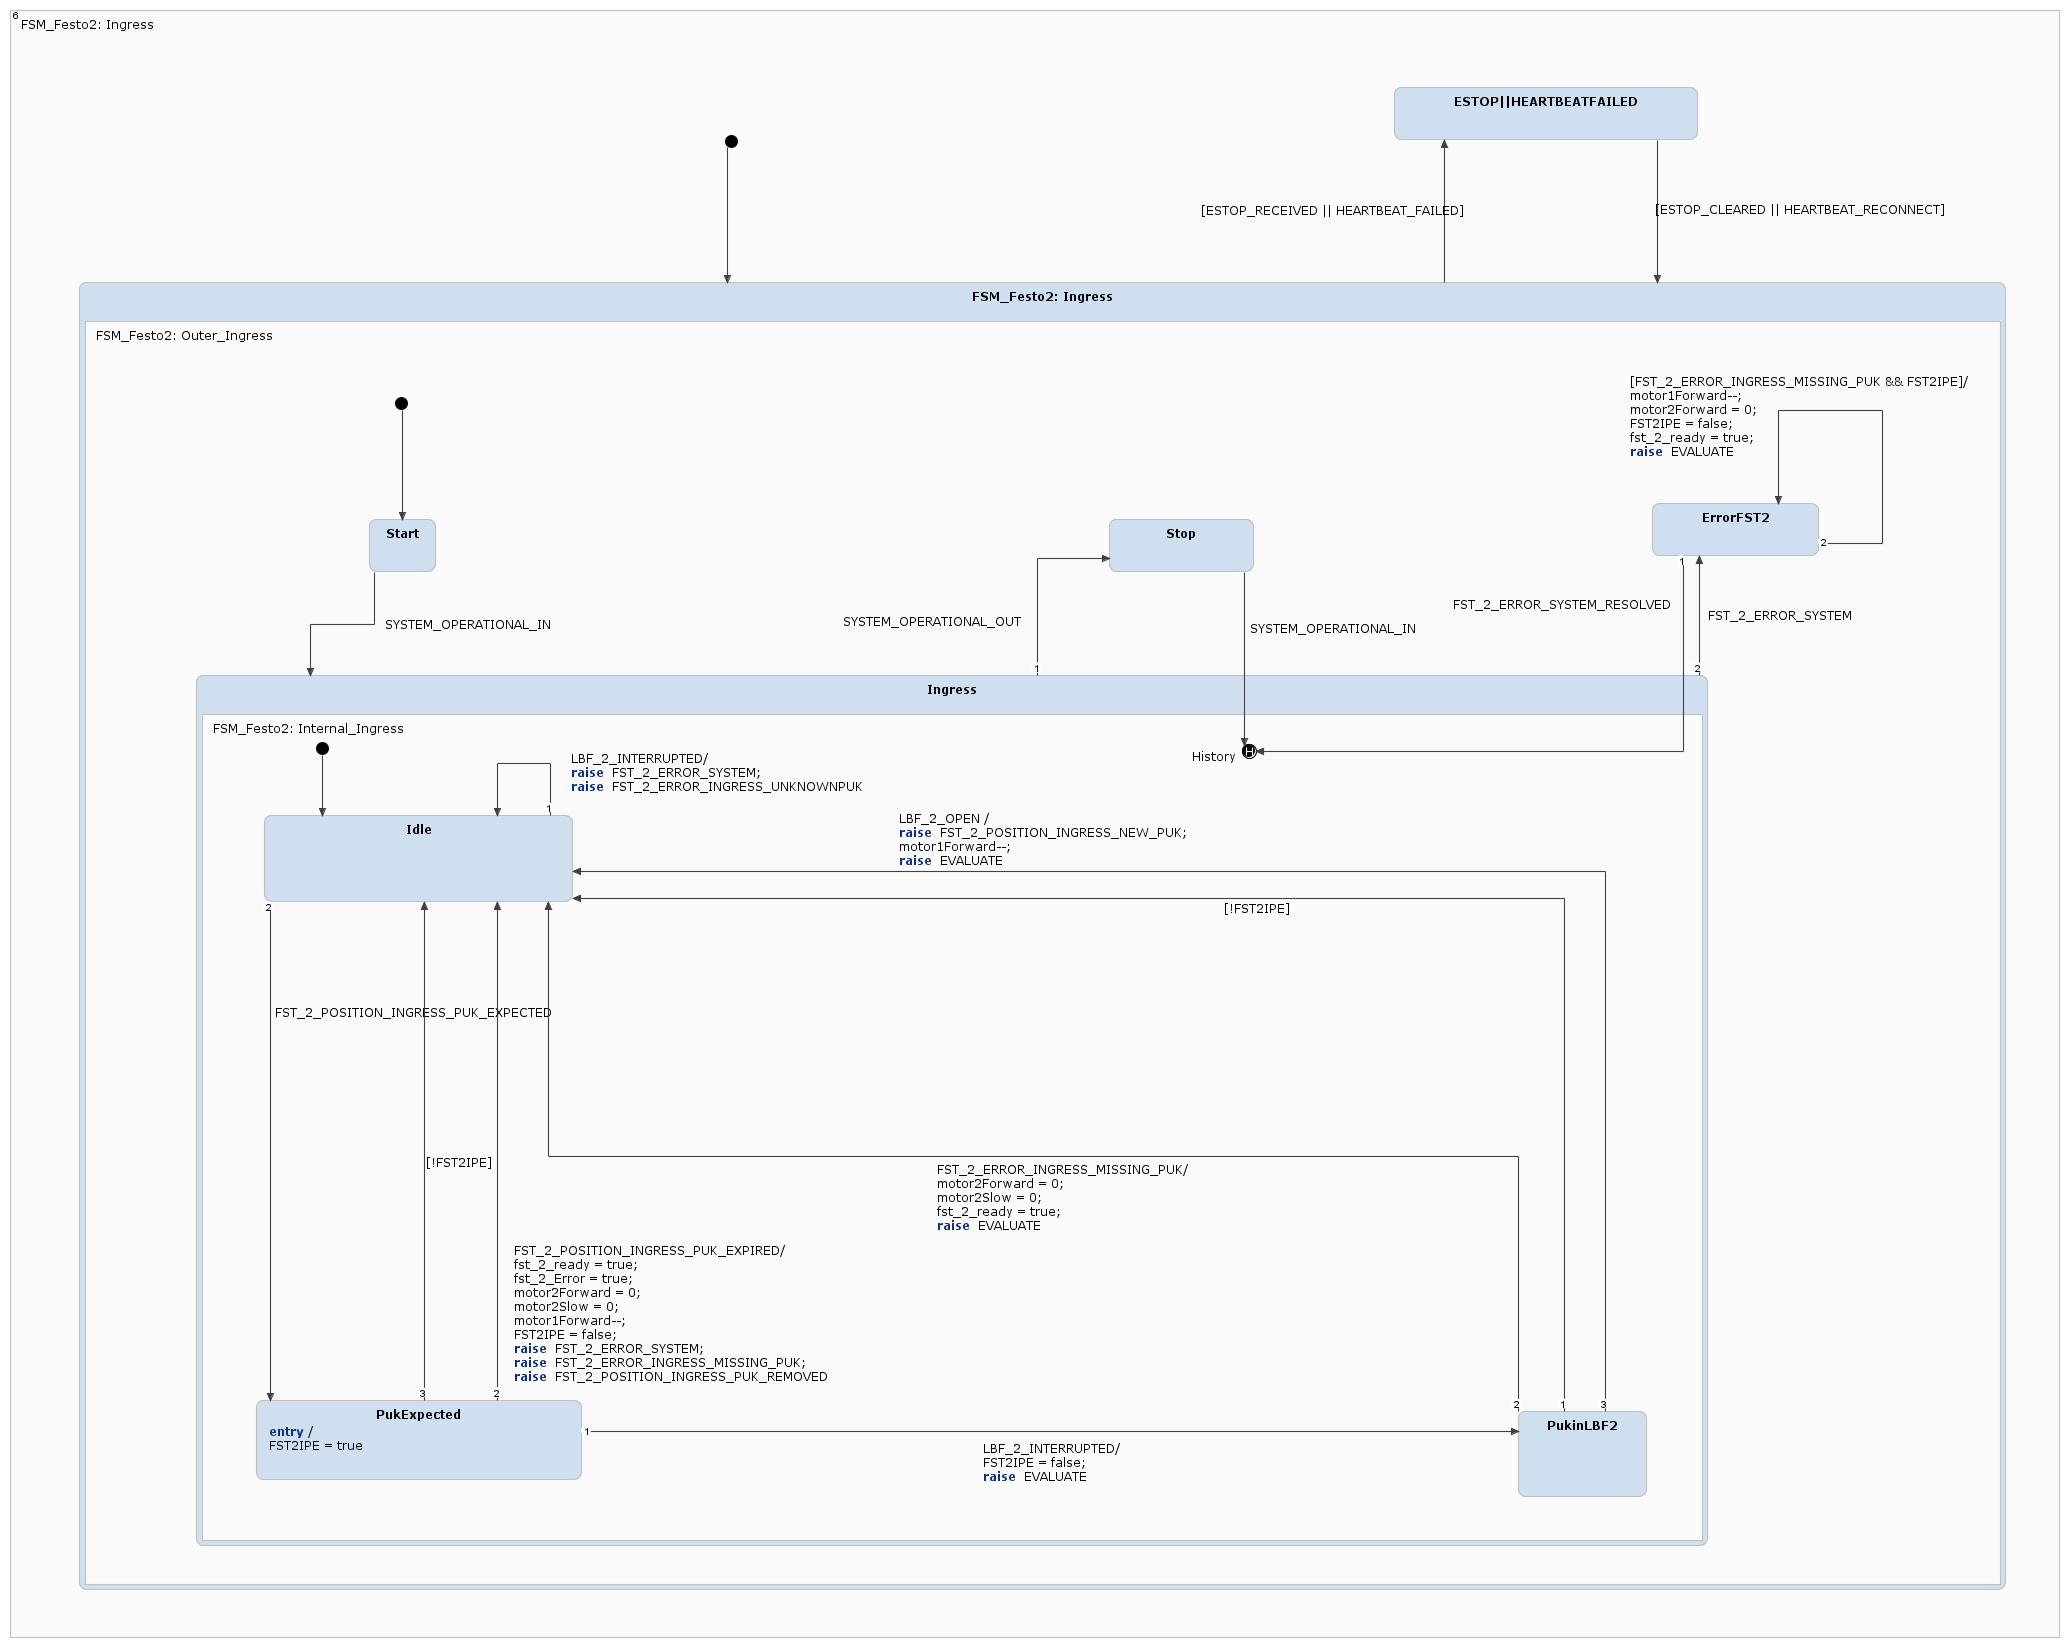
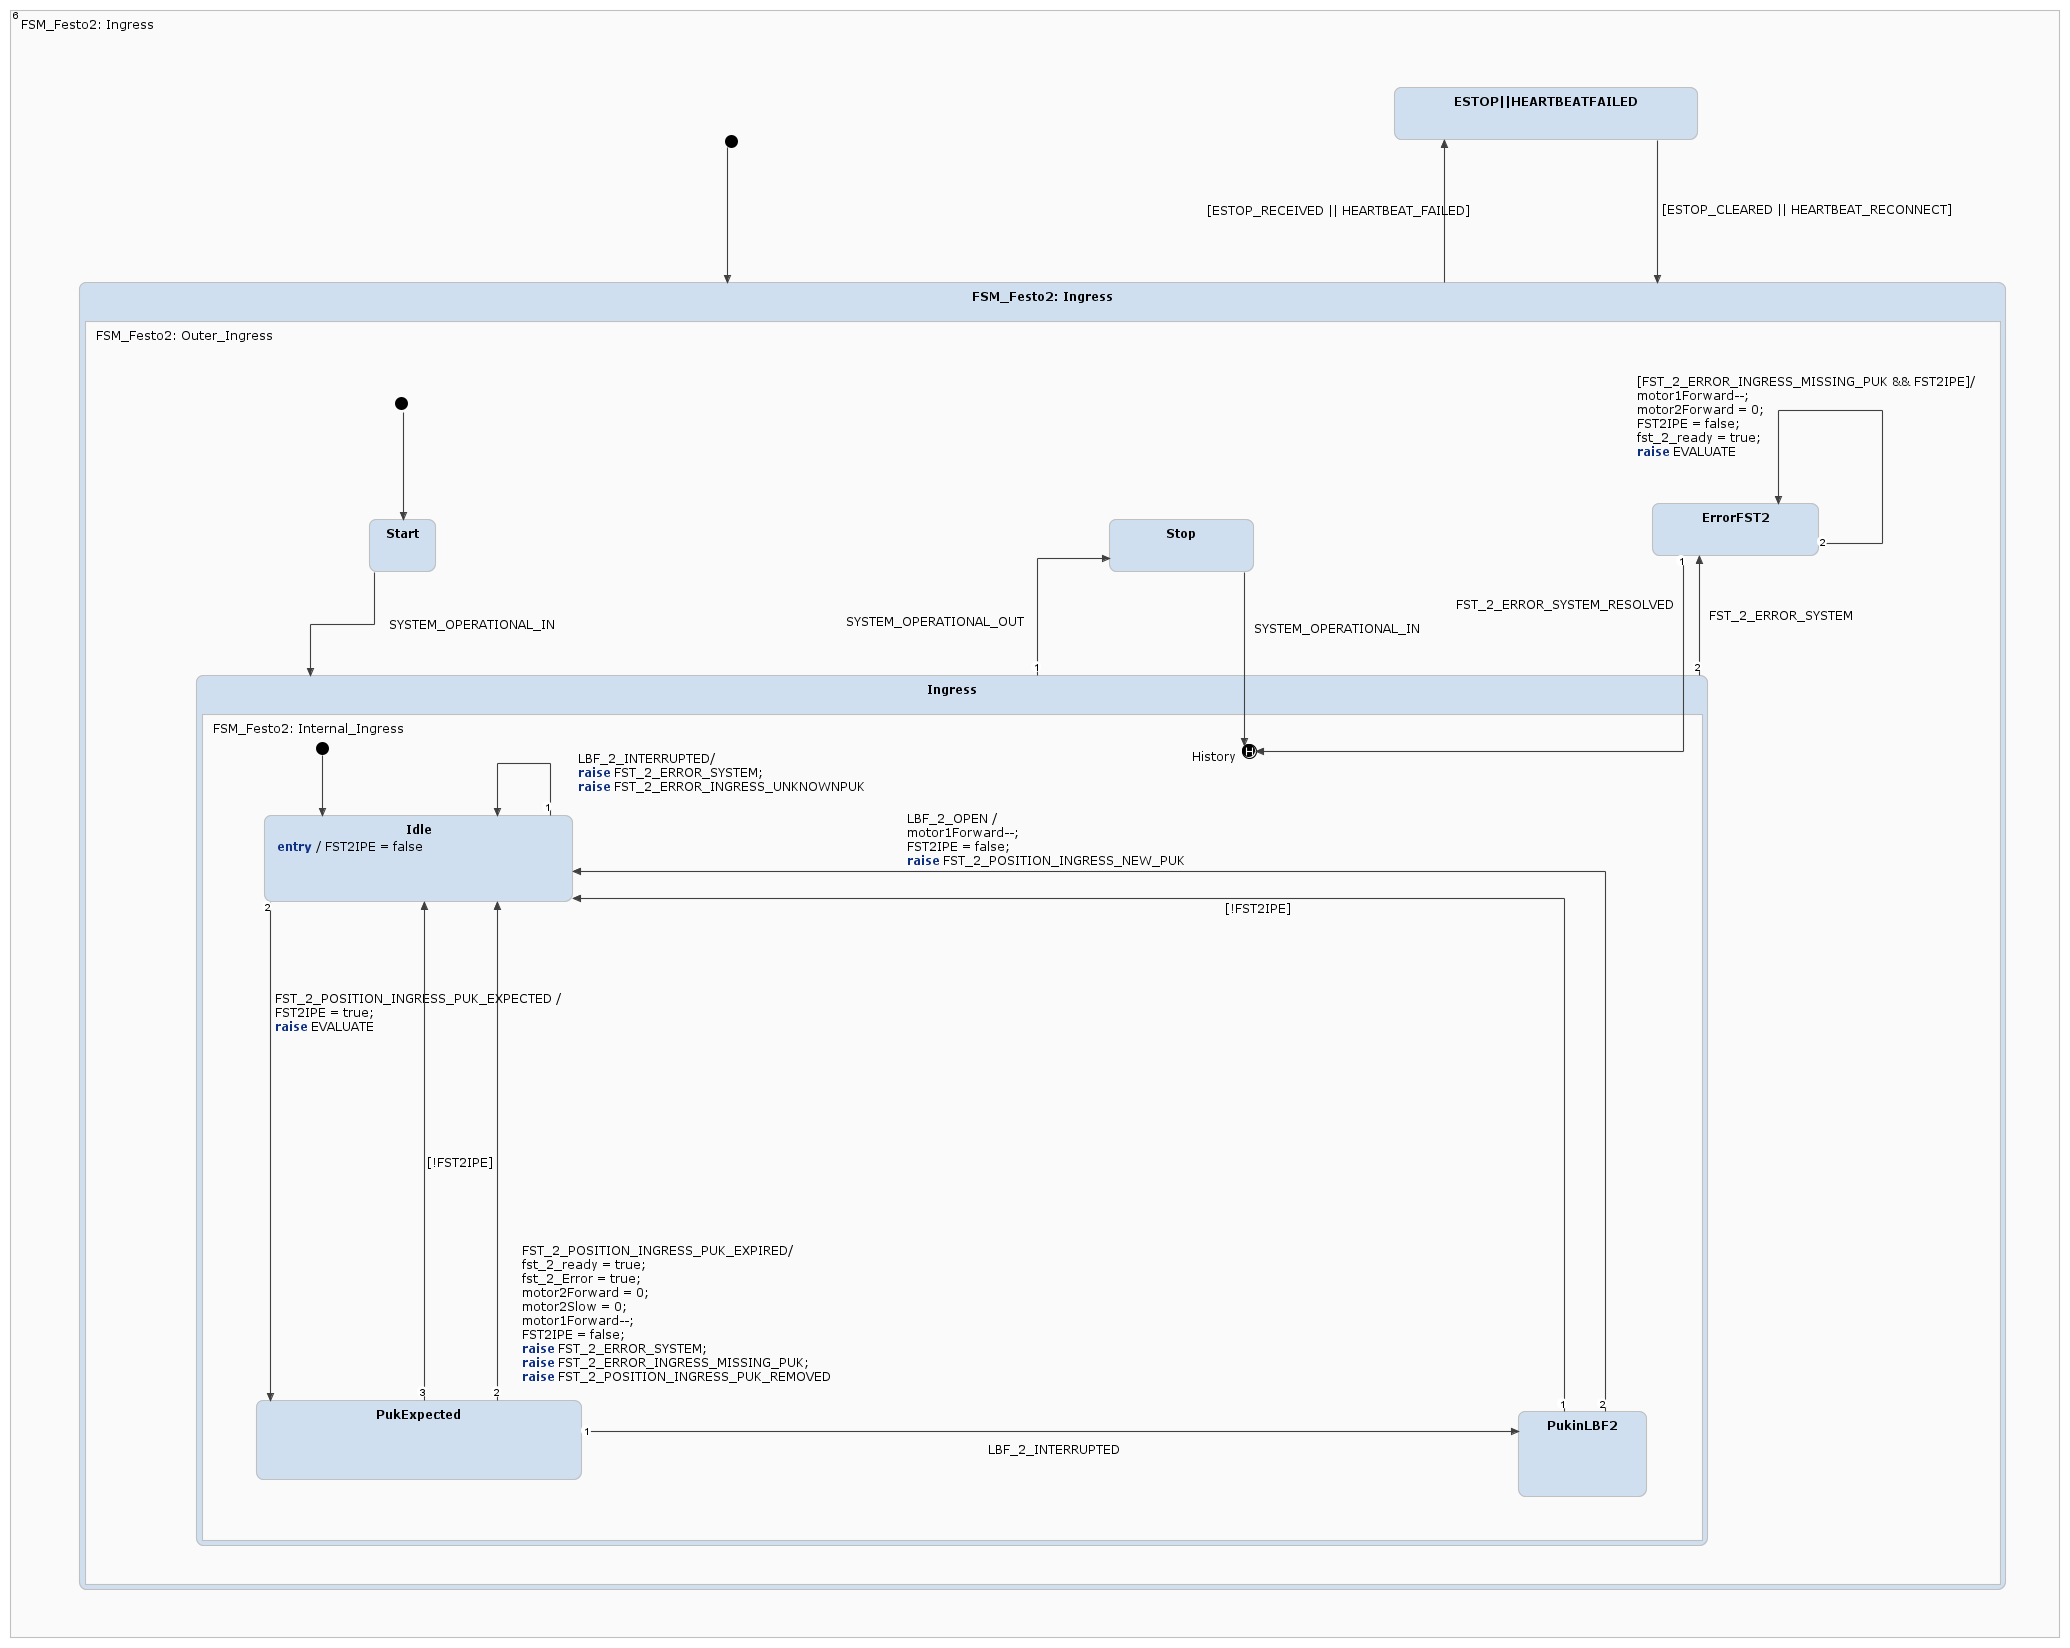
Reviewed fst2 ingress together

diff --git a/src/FSM/gen/src-gen/FSM.cpp b/src/FSM/gen/src-gen/FSM.cpp
@@ -4602,11 +4602,11 @@ void FSM::enact_FSM_QualityGate__Motor_SystemMotor_FSM_SystemMotor_Stop()
 	MOTOR_1_STOP_observable.next();
 }
 
-/* Entry action for state 'PukExpected'. */
-void FSM::enact_FSM_Festo2__Ingress_FSM_Festo2__Ingress_FSM_Festo2__Outer_Ingress_Ingress_FSM_Festo2__Internal_Ingress_PukExpected()
+/* Entry action for state 'Idle'. */
+void FSM::enact_FSM_Festo2__Ingress_FSM_Festo2__Ingress_FSM_Festo2__Outer_Ingress_Ingress_FSM_Festo2__Internal_Ingress_Idle()
 {
-	/* Entry action for state 'PukExpected'. */
-	setFST2IPE(true);
+	/* Entry action for state 'Idle'. */
+	setFST2IPE(false);
 }
 
 /* Entry action for state 'Idle'. */
@@ -5921,6 +5921,7 @@ void FSM::enseq_FSM_Festo2__Ingress_FSM_Festo2__Ingress_FSM_Festo2__Outer_Ingres
 void FSM::enseq_FSM_Festo2__Ingress_FSM_Festo2__Ingress_FSM_Festo2__Outer_Ingress_Ingress_FSM_Festo2__Internal_Ingress_Idle_default()
 {
 	/* 'default' enter sequence for state Idle */
+	enact_FSM_Festo2__Ingress_FSM_Festo2__Ingress_FSM_Festo2__Outer_Ingress_Ingress_FSM_Festo2__Internal_Ingress_Idle();
 	stateConfVector[5] = FSM::State::FSM_Festo2__Ingress_FSM_Festo2__Ingress_FSM_Festo2__Outer_Ingress_Ingress_FSM_Festo2__Internal_Ingress_Idle;
 	stateConfVectorPosition = 5;
 	historyVector[5] = stateConfVector[5];
@@ -5930,7 +5931,6 @@ void FSM::enseq_FSM_Festo2__Ingress_FSM_Festo2__Ingress_FSM_Festo2__Outer_Ingres
 void FSM::enseq_FSM_Festo2__Ingress_FSM_Festo2__Ingress_FSM_Festo2__Outer_Ingress_Ingress_FSM_Festo2__Internal_Ingress_PukExpected_default()
 {
 	/* 'default' enter sequence for state PukExpected */
-	enact_FSM_Festo2__Ingress_FSM_Festo2__Ingress_FSM_Festo2__Outer_Ingress_Ingress_FSM_Festo2__Internal_Ingress_PukExpected();
 	stateConfVector[5] = FSM::State::FSM_Festo2__Ingress_FSM_Festo2__Ingress_FSM_Festo2__Outer_Ingress_Ingress_FSM_Festo2__Internal_Ingress_PukExpected;
 	stateConfVectorPosition = 5;
 	historyVector[5] = stateConfVector[5];
@@ -15995,6 +15995,9 @@ sc::integer FSM::FSM_Festo2__Ingress_FSM_Festo2__Ingress_FSM_Festo2__Outer_Ingre
 				if (FST_2_POSITION_INGRESS_PUK_EXPECTED_raised)
 				{ 
 					exseq_FSM_Festo2__Ingress_FSM_Festo2__Ingress_FSM_Festo2__Outer_Ingress_Ingress_FSM_Festo2__Internal_Ingress_Idle();
+					setFST2IPE(true);
+					EVALUATE_observable.next();
+					raiseLocal_EVALUATE();
 					enseq_FSM_Festo2__Ingress_FSM_Festo2__Ingress_FSM_Festo2__Outer_Ingress_Ingress_FSM_Festo2__Internal_Ingress_PukExpected_default();
 					FSM_Festo2__Ingress_FSM_Festo2__Ingress_FSM_Festo2__Outer_Ingress_Ingress_react(5);
 					transitioned_after = 5;
@@ -16021,9 +16024,6 @@ sc::integer FSM::FSM_Festo2__Ingress_FSM_Festo2__Ingress_FSM_Festo2__Outer_Ingre
 			if (LBF_2_INTERRUPTED_raised)
 			{ 
 				exseq_FSM_Festo2__Ingress_FSM_Festo2__Ingress_FSM_Festo2__Outer_Ingress_Ingress_FSM_Festo2__Internal_Ingress_PukExpected();
-				setFST2IPE(false);
-				EVALUATE_observable.next();
-				raiseLocal_EVALUATE();
 				enseq_FSM_Festo2__Ingress_FSM_Festo2__Ingress_FSM_Festo2__Outer_Ingress_Ingress_FSM_Festo2__Internal_Ingress_PukinLBF2_default();
 				FSM_Festo2__Ingress_FSM_Festo2__Ingress_FSM_Festo2__Outer_Ingress_Ingress_react(5);
 				transitioned_after = 5;
@@ -16078,36 +16078,21 @@ sc::integer FSM::FSM_Festo2__Ingress_FSM_Festo2__Ingress_FSM_Festo2__Outer_Ingre
 			if (LBF_2_OPEN_raised)
 			{ 
 				exseq_FSM_Festo2__Ingress_FSM_Festo2__Ingress_FSM_Festo2__Outer_Ingress_Ingress_FSM_Festo2__Internal_Ingress_PukinLBF2();
-				FST_2_POSITION_INGRESS_NEW_PUK_observable.next();
 				motor1Forward--;
-				EVALUATE_observable.next();
-				raiseLocal_EVALUATE();
+				setFST2IPE(false);
+				FST_2_POSITION_INGRESS_NEW_PUK_observable.next();
 				enseq_FSM_Festo2__Ingress_FSM_Festo2__Ingress_FSM_Festo2__Outer_Ingress_Ingress_FSM_Festo2__Internal_Ingress_Idle_default();
 				FSM_Festo2__Ingress_FSM_Festo2__Ingress_FSM_Festo2__Outer_Ingress_Ingress_react(5);
 				transitioned_after = 5;
 			}  else
 			{
-				if (local_FST_2_ERROR_INGRESS_MISSING_PUK_raised)
+				if (!(FST2IPE))
 				{ 
 					exseq_FSM_Festo2__Ingress_FSM_Festo2__Ingress_FSM_Festo2__Outer_Ingress_Ingress_FSM_Festo2__Internal_Ingress_PukinLBF2();
-					setMotor2Forward(0);
-					setMotor2Slow(0);
-					setFst_2_ready(true);
-					EVALUATE_observable.next();
-					raiseLocal_EVALUATE();
 					enseq_FSM_Festo2__Ingress_FSM_Festo2__Ingress_FSM_Festo2__Outer_Ingress_Ingress_FSM_Festo2__Internal_Ingress_Idle_default();
 					FSM_Festo2__Ingress_FSM_Festo2__Ingress_FSM_Festo2__Outer_Ingress_Ingress_react(5);
 					transitioned_after = 5;
-				}  else
-				{
-					if (!(FST2IPE))
-					{ 
-						exseq_FSM_Festo2__Ingress_FSM_Festo2__Ingress_FSM_Festo2__Outer_Ingress_Ingress_FSM_Festo2__Internal_Ingress_PukinLBF2();
-						enseq_FSM_Festo2__Ingress_FSM_Festo2__Ingress_FSM_Festo2__Outer_Ingress_Ingress_FSM_Festo2__Internal_Ingress_Idle_default();
-						FSM_Festo2__Ingress_FSM_Festo2__Ingress_FSM_Festo2__Outer_Ingress_Ingress_react(5);
-						transitioned_after = 5;
-					} 
-				}
+				} 
 			}
 		} 
 		/* If no transition was taken */

diff --git a/src/FSM/gen/src-gen/FSM.h b/src/FSM/gen/src-gen/FSM.h
@@ -1689,7 +1689,7 @@ class FSM : public sc::EventDrivenInterface
 		void enact_FSM_QualityGate__Motor_SystemMotor_FSM_SystemMotor_Forward();
 		void enact_FSM_QualityGate__Motor_SystemMotor_FSM_SystemMotor_Slow();
 		void enact_FSM_QualityGate__Motor_SystemMotor_FSM_SystemMotor_Stop();
-		void enact_FSM_Festo2__Ingress_FSM_Festo2__Ingress_FSM_Festo2__Outer_Ingress_Ingress_FSM_Festo2__Internal_Ingress_PukExpected();
+		void enact_FSM_Festo2__Ingress_FSM_Festo2__Ingress_FSM_Festo2__Outer_Ingress_Ingress_FSM_Festo2__Internal_Ingress_Idle();
 		void enact_FSM_Festo2__HeightMeasurement_FSM_Festo2__HeightMeasurement_FSM_Festo2__Outer_Heightmeasurement_HeightMeasurement_FSM_Festo2__Internal_HeightMeasurement_Idle();
 		void enact_FSM_Festo2__HeightMeasurement_FSM_Festo2__HeightMeasurement_FSM_Festo2__Outer_Heightmeasurement_HeightMeasurement_FSM_Festo2__Internal_HeightMeasurement_PukExpected();
 		void enact_FSM_Festo2__HeightMeasurement_FSM_Festo2__HeightMeasurement_FSM_Festo2__Outer_Heightmeasurement_HeightMeasurement_FSM_Festo2__Internal_HeightMeasurement_Measuring_FSM_Festo2__Outer_HeightMeasurement__final_();
